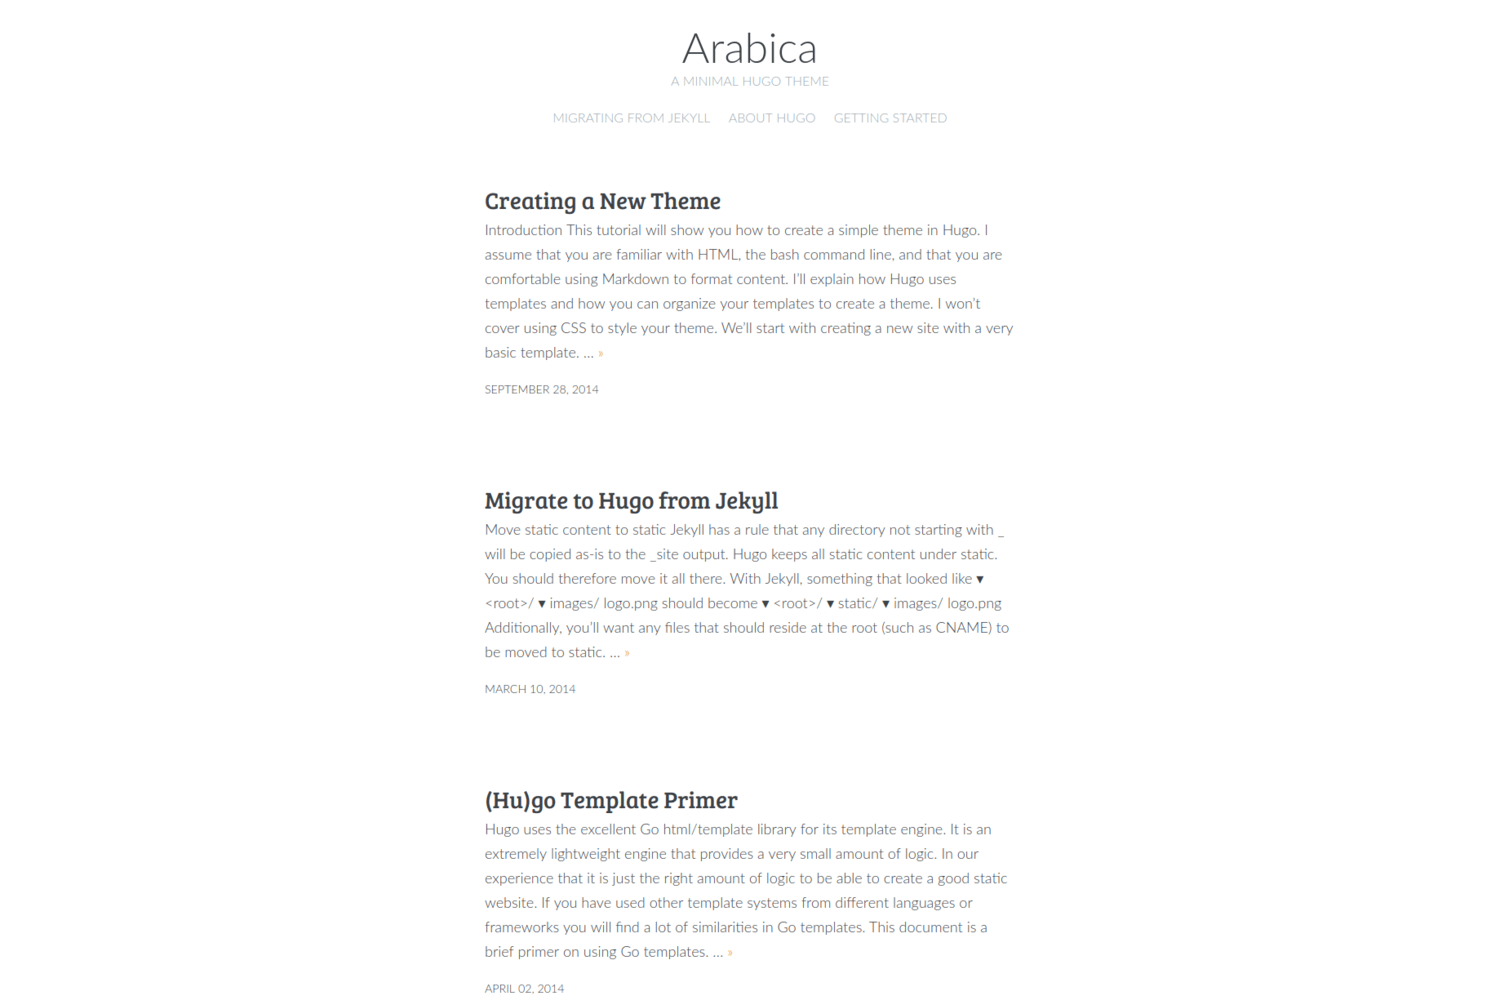
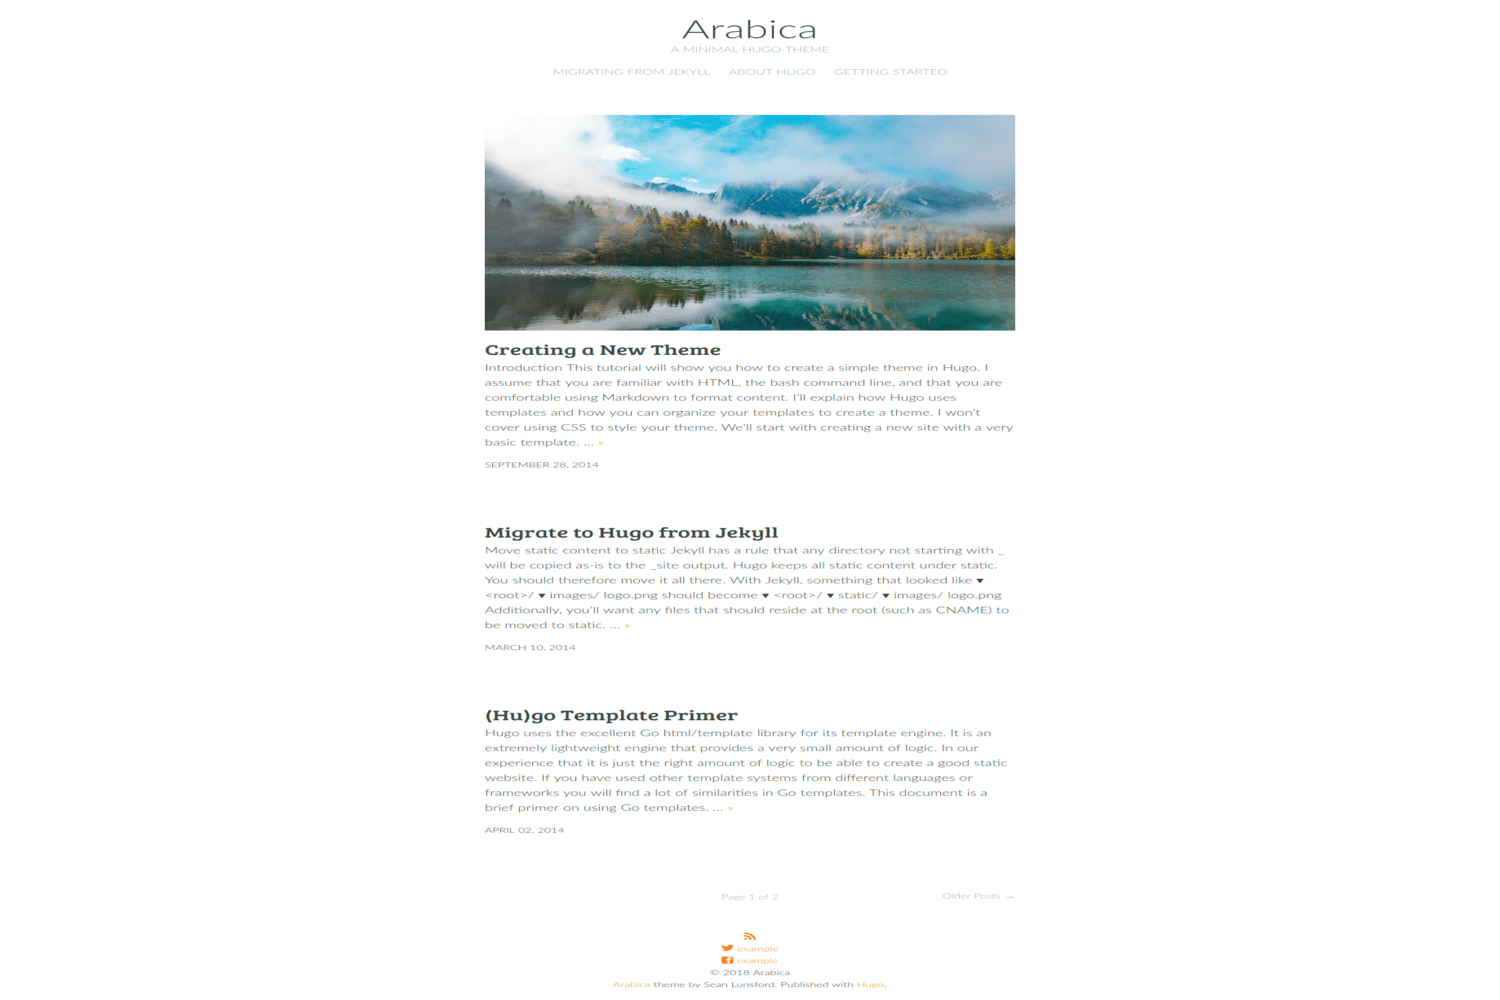
feature image of post

Changed region(s): [[0.3067, 0.496, 0.6747, 0.992], [0.3067, 0.031, 0.6747, 0.465]]

diff --git a/layouts/post/single.html b/layouts/post/single.html
@@ -3,6 +3,9 @@
 <main class="content" role="main">
   <article class="post">
     <header class="post-header">
+      {{ with .Params.image }}
+        <img src="{{ . }}"></img>
+      {{ end }}
       <h2 class="post-title">{{ .Title }}</h2>
       <section class="post-meta">
         <time class="post-date">{{ .Date.Format (.Site.Params.dateFormatToUse | default "January 02, 2006") }}</time>

diff --git a/layouts/post/summary.html b/layouts/post/summary.html
@@ -1,5 +1,8 @@
 <article class="post">
 	<header class="post-header">
+    {{ with .Params.image }}
+      <img src="{{ . }}"></img>
+    {{ end }}
 		<h2 class="post-title"><a href="{{ .URL }}">{{ .Title }}</a></h2>
 	</header>
 	<section class="post-excerpt">

diff --git a/exampleSite/content/post/creating-a-new-theme.md b/exampleSite/content/post/creating-a-new-theme.md
@@ -5,6 +5,7 @@ linktitle: Creating a New Theme
 next: /tutorials/github-pages-blog
 prev: /tutorials/automated-deployments
 title: Creating a New Theme
+image: "https://images.unsplash.com/photo-1538729247193-1256701f9ef5?ixlib=rb-0.3.5&ixid=eyJhcHBfaWQiOjEyMDd9&s=ff548421755d700a1fdfeec098c32345&auto=format&fit=crop&w=1350&q=80"
 weight: 10
 ---
 

diff --git a/README.md b/README.md
@@ -44,6 +44,8 @@ theme = "arabica"
     facebook = "example"
 ```
 
+You can add `image` front matter to a post, see [example post](https://github.com/nirocfz/arabica/blob/master/exampleSite/content/post/creating-a-new-theme.md).
+
 Thanks
 
 * [Hugo](https://gohugo.io/)
